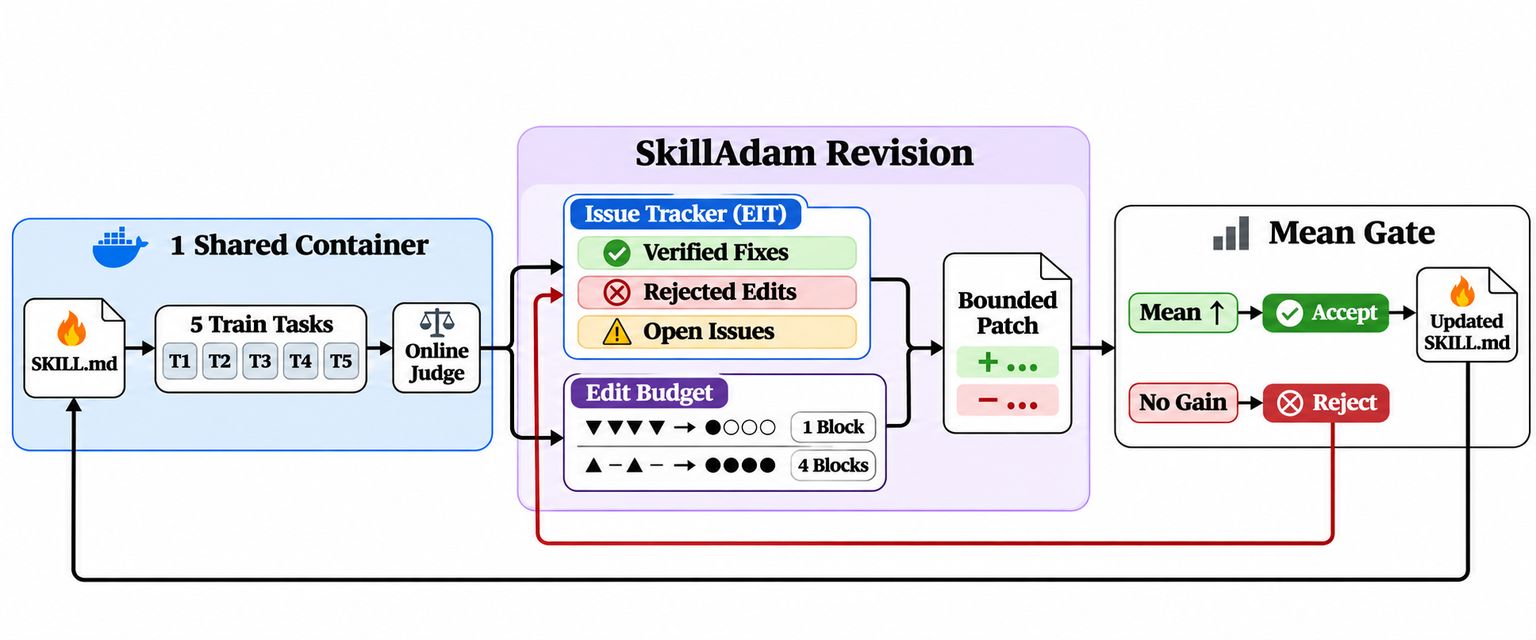
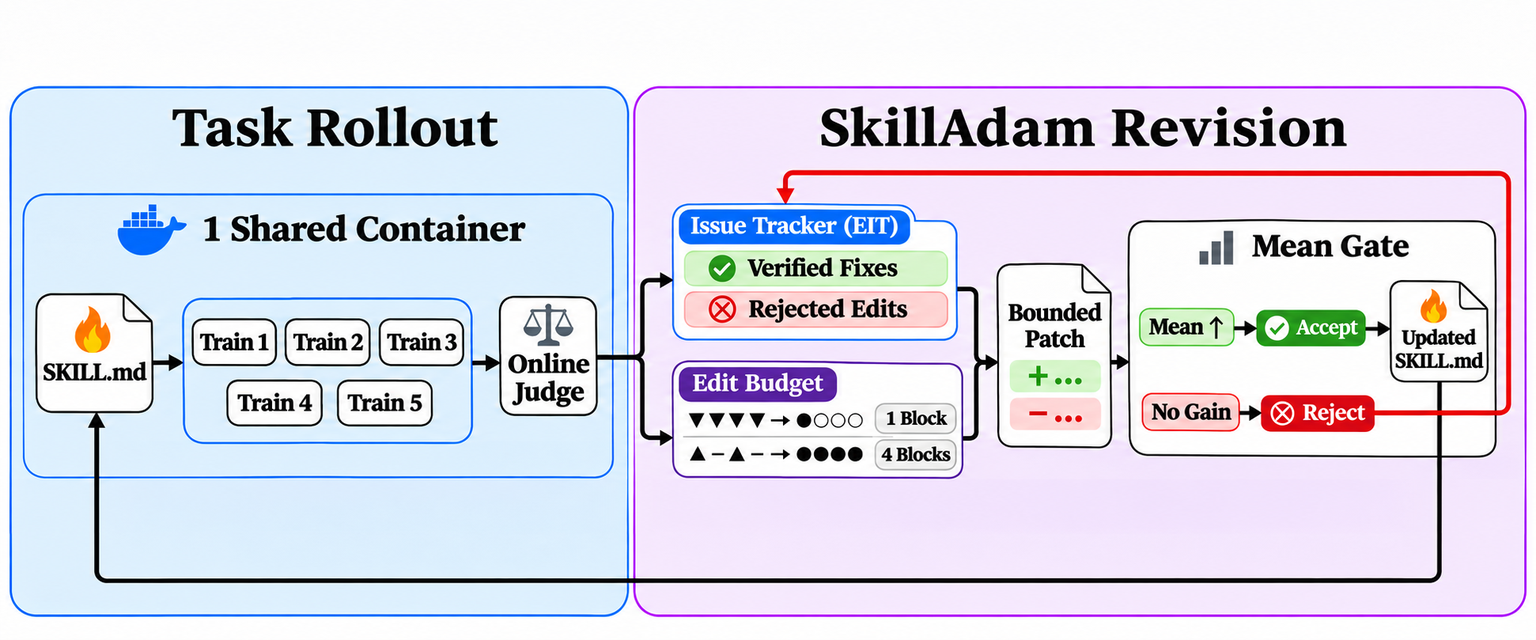
docs(landing): add 6 SkillAdam figure variants matching Figure 2 visual language

diff --git a/packages/landing/public/figures/compare.html b/packages/landing/public/figures/compare.html
@@ -3,7 +3,7 @@
 <head>
   <meta charset="utf-8" />
   <meta name="viewport" content="width=device-width, initial-scale=1.0" />
-  <title>GDPEVO Blog 配图 — 竖排 5 行 vs. 横排 5 列对比</title>
+  <title>GDPEVO Blog 配图 — 6 版同风格 SkillAdam 候选图对比</title>
   <style>
     body {
       margin: 0;
@@ -25,6 +25,12 @@
       color: #475569;
       margin-bottom: 32px;
       font-size: 15px;
+    }
+    h2 {
+      font-size: 21px;
+      margin: 44px 0 16px;
+      padding-bottom: 8px;
+      border-bottom: 2px solid #cbd5e1;
     }
     .card {
       background: #ffffff;
@@ -73,31 +79,73 @@
 </head>
 <body>
   <div class="container">
-    <h1>GDPEVO 博客配图 — Evolved Agent 移出容器外 + 后半部分“竖排 5 行 vs. 横排 5 列”对比</h1>
-    <p class="sub">两版的前半部分均已将绿色的 <code>🤖🔥 Evolved Agent (+ SKILL.md)</code> 移到 <code>🐳 1 Shared Container</code> 外侧（作为训练容器完成后的导出产物）；后半部分分别展示<strong>“一行一行竖着叠放 5 个横向容器”</strong>与<strong>“并列横着排 5 个竖向容器”</strong>。博客正文页：<a href="/blog/gdpevo-self-evolution">/blog/gdpevo-self-evolution</a>。</p>
+    <h1>GDPEVO 博客配图 — 图 1（SkillAdam 自进化机制）6 版同风格设计对比</h1>
+    <p class="sub">完全沿用已定稿的图 2（版本 1）的视觉设计语言（衬线粗体大标题、左浅蓝/右浅紫圆角大面板、3+2 训练题池、极简文字密度），设计了 <strong>6 种不同构图的 SkillAdam 机制图（SA-V1 ～ SA-V6）</strong>。博客正文页：<a href="/blog/gdpevo-self-evolution">/blog/gdpevo-self-evolution</a>。</p>
+
+    <h2>一、图 1（SkillAdam 容器内自进化机制）— 6 版候选对比</h2>
 
     <div class="card">
       <div class="card-head">
-        <strong>版本 1（竖着一行一行排 — f2-compare-vertical-fixed.png?v=2）：左出 Evolved Agent 水平一分五 → 5 行横向测试容器 → 五合一水平进 Offline Verifier</strong>
-        <span class="badge badge-green">当前默认挂载 · 全图共享同一条水平中轴线，一分五/五合一最对称顺畅</span>
+        <strong>版本 SA-V1：对称双大框（左浅蓝 Task Rollout vs. 右浅紫 SkillAdam Revision）</strong>
+        <span class="badge badge-green">当前默认挂载 · 与图 2 的左蓝右紫双大框 100% 呼应</span>
       </div>
-      <img src="/figures/f2-compare-vertical-fixed.png?v=2" alt="Vertical Stack" />
+      <p class="desc"><strong>构图特点</strong>：左边浅蓝框 <code>Task Rollout (1 Shared Container)</code> 展示 <code>SKILL.md → 3+2 训练题池 → Online Judge</code>；右边浅紫框 <code>SkillAdam Revision</code> 将 <code>Issue Tracker (EIT)</code> 与 <code>Edit Budget (▼→●○○○ / ▲→●●●●)</code> 合并为 <code>Bounded Patch</code>，再经 <code>Mean Gate</code> 分出采纳回流与拒绝记账。</p>
+      <img src="/figures/sa-v1-two-panel.png?v=1" alt="SA-V1" />
     </div>
 
     <div class="card">
       <div class="card-head">
-        <strong>版本 2（横着并列排 — f2-compare-horizontal.png）：左出 Evolved Agent 向上绕顶一分五 → 5 列竖向测试容器 → 底部五合一进 Offline Verifier</strong>
-        <span class="badge">对比：横向并列排布</span>
+        <strong>版本 SA-V2：左中右三阶段色块（1. Task Rollout → 2. Adam Controller → 3. Mean Gate）</strong>
+        <span class="badge">浅蓝 + 浅紫 + 浅绿三段式</span>
       </div>
-      <img src="/figures/f2-compare-horizontal.png" alt="Horizontal Columns" />
+      <p class="desc"><strong>构图特点</strong>：把流程拆成左（实测判分）、中（一阶 EIT 账本 + 二阶方差预算 → 受限补丁）、右（均值门控采纳/回退）三个独立色块面板，层次分明。</p>
+      <img src="/figures/sa-v2-three-panel.png?v=1" alt="SA-V2" />
     </div>
 
     <div class="card">
       <div class="card-head">
-        <strong>配套同风格图 1（f1-match-v1.png — SkillAdam 容器内演进闭环）</strong>
-        <span class="badge badge-green">当前默认挂载</span>
+        <strong>版本 SA-V3：上下顺时针双轨闭环（上排从左到右 Rollout → 下排从右到左 Revision → 右侧导出 Evolved Agent）</strong>
+        <span class="badge">顺时针闭环 · 无外部长回流线</span>
       </div>
-      <img src="/figures/f1-match-v1.png" alt="M1 SkillAdam" />
+      <p class="desc"><strong>构图特点</strong>：在同一个 <code>1 Shared Container</code> 内，上轨从左向右执行 <code>Agent + SKILL.md → 3+2 训练题池 → Online Judge</code>，下轨从右向左完成 <code>EIT & Budget → Bounded Patch → Mean Gate</code>，左侧直接向上闭环更新 <code>SKILL.md</code>，右侧导出绿色的 <code>Evolved Agent (+ SKILL.md)</code>。</p>
+      <img src="/figures/sa-v3-clockwise-track.png?v=1" alt="SA-V3" />
+    </div>
+
+    <div class="card">
+      <div class="card-head">
+        <strong>版本 SA-V4：纯水平中轴分叉-汇合树（1 → 2 → 1 → 2 对称树，零外部回流线）</strong>
+        <span class="badge">复刻图 2 版本 1 的水平中轴对称分叉树</span>
+      </div>
+      <p class="desc"><strong>构图特点</strong>：完全采用图 2 版本 1 的“水平中轴分叉-汇合”结构——左边 <code>Base Agent 🔄 3+2 训练题池 → Online Judge</code>，进入右边浅紫框后水平一分二为 <code>Issue Tracker (EIT)</code> 和 <code>Edit Budget</code>，二合一进入 <code>Bounded Patch → Mean Gate</code>，最后水平一分二输出 <code>✔ Accept</code> 与 <code>⊗ Reject</code>，全图没有任何绕外圈的回流线。</p>
+      <img src="/figures/sa-v4-fork-join-tree.png?v=1" alt="SA-V4" />
+    </div>
+
+    <div class="card">
+      <div class="card-head">
+        <strong>版本 SA-V5：左全景 + 右放大（左边直接复用图 2 的训练容器框，右边放大展开中间的循环符号 🔄）</strong>
+        <span class="badge">左宏观 + 右微观 Zoom-In</span>
+      </div>
+      <p class="desc"><strong>构图特点</strong>：左边浅蓝框与图 2 的左半部分完全一致（<code>Base Agent 🔄 3+2 训练题池 → Evolved Agent</code>），右边浅紫框专门把中间的 <code>🔄</code> 放大展开为 <code>Online Judge → [EIT + Edit Budget] → Bounded Patch → Mean Gate</code>。</p>
+      <img src="/figures/sa-v5-macro-zoom.png?v=1" alt="SA-V5" />
+    </div>
+
+    <div class="card">
+      <div class="card-head">
+        <strong>版本 SA-V6：上主干四步直线流 + 下通栏持久状态底座（Persistent SkillAdam State）</strong>
+        <span class="badge">极简上下分栏</span>
+      </div>
+      <p class="desc"><strong>构图特点</strong>：上方 4 张等高卡片从左到右直线排列（<code>5 Train Tasks → Online Judge → Bounded Patch → Mean Gate</code>）；下方一条通栏紫色底座并列放置 <code>Issue Tracker (EIT)</code> 与 <code>Volatility Edit Budget</code>，仅用两根垂直短箭头与上方主干交互。</p>
+      <img src="/figures/sa-v6-memory-bar.png?v=1" alt="SA-V6" />
+    </div>
+
+    <h2>二、已定稿的图 2（版本 1 — 竖排 5 行测试容器版）</h2>
+
+    <div class="card">
+      <div class="card-head">
+        <strong>图 2 定稿版（f2-compare-vertical-fixed.png）</strong>
+        <span class="badge badge-green">已定稿锁定</span>
+      </div>
+      <img src="/figures/f2-compare-vertical-fixed.png?v=2" alt="Final Figure 2" />
     </div>
   </div>
 </body>
